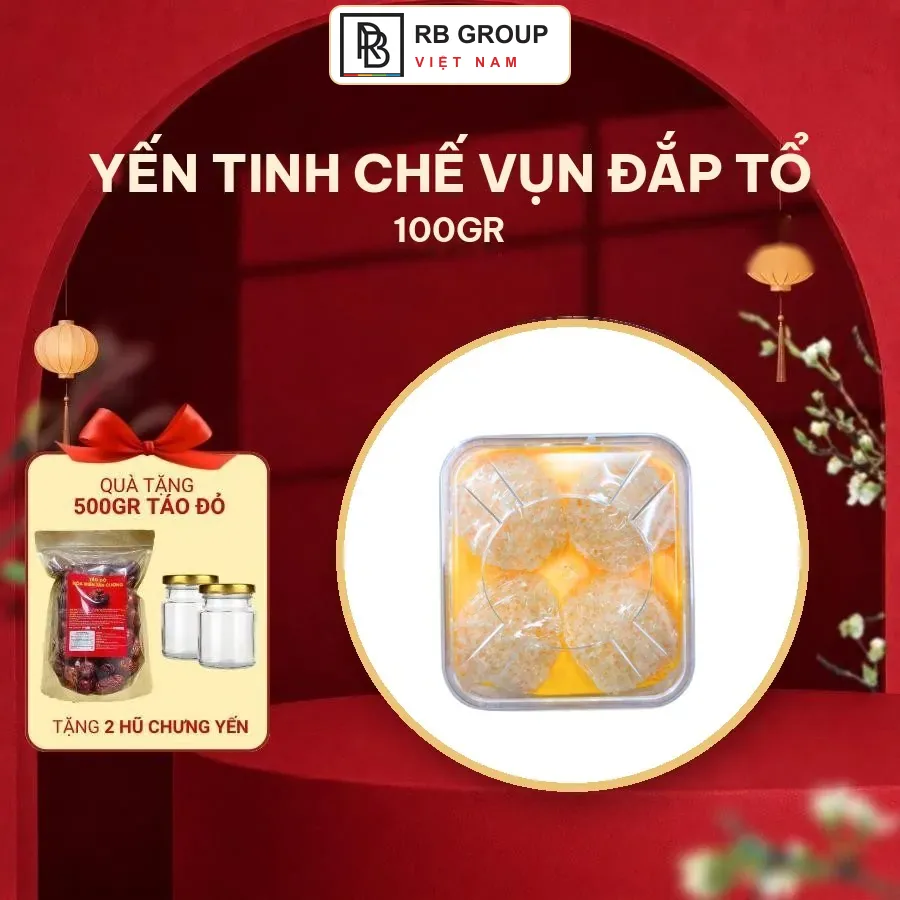
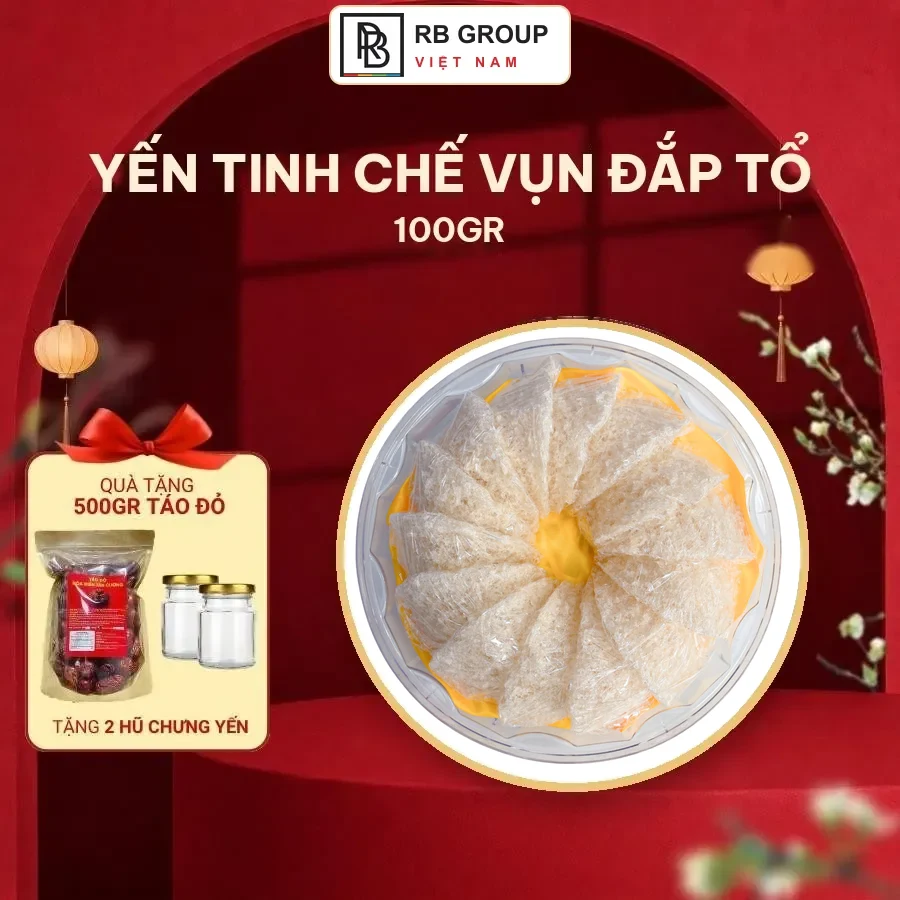
Thay ảnh mới cho Yến Tinh Chế Vụn Đắp Tổ và Sợi Ngắn, Đầu Chân

Changed region(s): [[0.3733, 0.3733, 0.8711, 0.8711]]

diff --git a/index.html b/index.html
@@ -755,7 +755,7 @@ const SETS = [
 ];
 const DIR = "images/san-pham/";
 // Đổi số phiên bản khi thay ảnh catalog để trình duyệt tải ảnh mới thay vì ảnh cũ đã lưu.
-const IMG_V = "?v=10";
+const IMG_V = "?v=11";
 // Ảnh hiển thị dùng bản WebP (nhẹ hơn ~40%); bản .jpg gốc giữ lại cho dữ liệu SEO và chia sẻ.
 const webp = f => f.replace(/\.jpg$/, ".webp");
 const full = f => DIR + webp(f) + (/^(catalog|that|khung|tet)\//.test(f) ? IMG_V : "");
